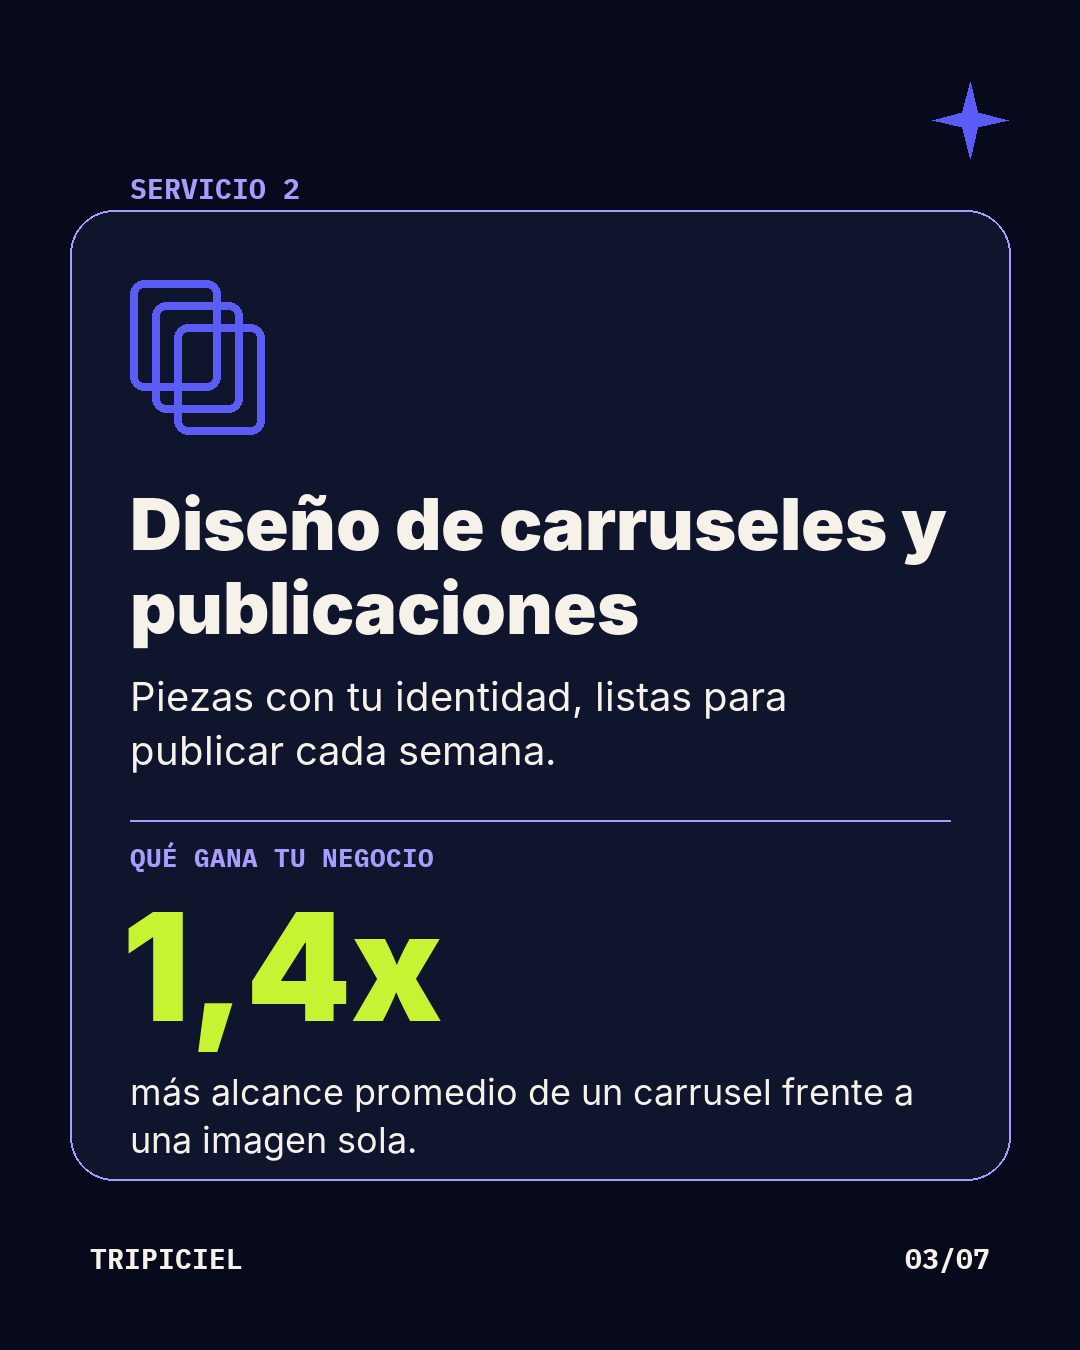
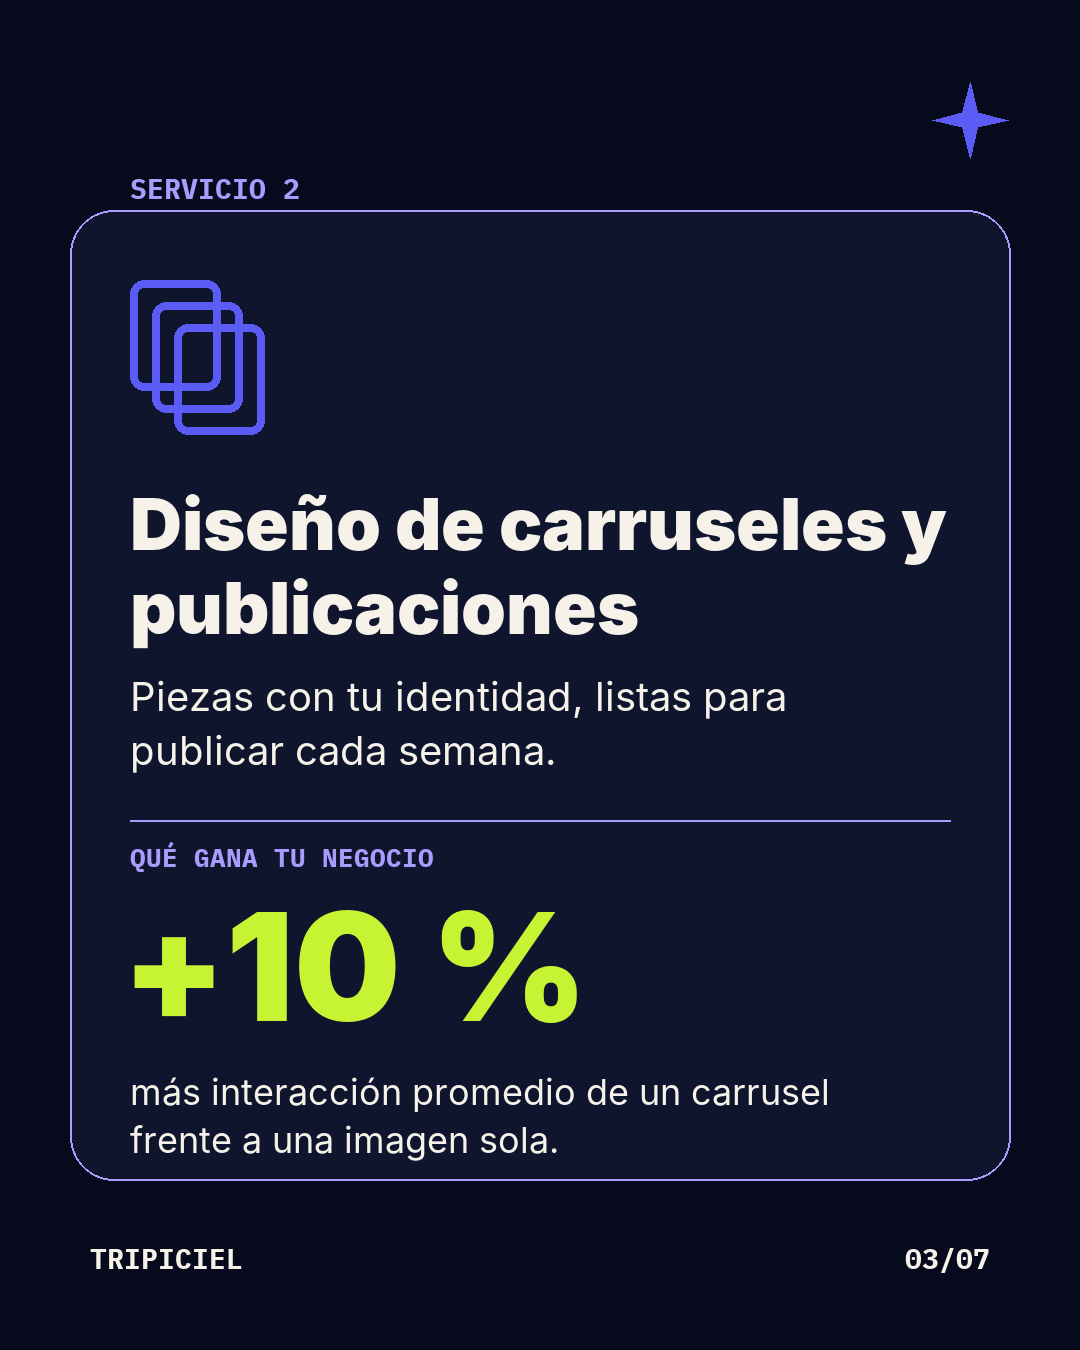
Carrusel día 01: cifras verificadas (slide 3 y 6) y fuentes

Changed region(s): [[0.1222, 0.6533, 0.8556, 0.8711]]

diff --git a/semana-01/dia-01/carrusel/notas.md b/semana-01/dia-01/carrusel/notas.md
@@ -1,11 +1,7 @@
-# Fuentes de las cifras (carrusel día 01)
+# Fuentes de las cifras (verificadas el 13/11/2026)
 
-Son cifras de industria (no de casos propios). Verificar cada una antes de publicar.
-
-- 87 % (slide 2) — Wyzowl, *Video Marketing Statistics* (2024): marketers que dicen que el video aumentó sus ventas.
-- 1,4x (slide 3) — A VERIFICAR: dato de alcance de carruseles vs. imagen única citado en estudios de Socialinsider sobre Instagram; confirmar número y año exactos o reemplazar.
-- 75 % (slide 4) — Stanford Web Credibility Research (B. J. Fogg): usuarios que juzgan la credibilidad de una empresa por el diseño de su web.
-- 90 % (slide 5) — HubSpot Research: clientes que califican una respuesta "inmediata" como importante o muy importante en atención.
-- 76 % (slide 6) — Sprout Social Index: consumidores que compraron algo que vieron en redes sociales. Confirmar edición/año.
-
-Casos Chicho Cars / Nacusi Muebles: no se usaron porque no había cifras reales disponibles; si existen, pueden reemplazar estas cifras.
+- 87 % (slide 2): Wyzowl, State of Video Marketing 2024. Marketers que dicen que el video aumentó directamente sus ventas (87 % en 2023 y 2024).
+- +10 % (slide 3): Socialinsider, estudio de 22 millones de posts de Instagram. Interacción promedio: carrusel 1,92 % frente a imagen 1,74 % (+10 %). Reemplaza el 1,4x anterior, que no tenía respaldo.
+- 75 % (slide 4): atribuido al Stanford Web Credibility Research (B. J. Fogg). Se cita en todas partes, pero no se ubicó la fuente primaria. Usar con cautela o reemplazar.
+- 90 % (slide 5): encuesta de HubSpot Research de 2018, citada en el State of Service 2022. Clientes que califican una respuesta "inmediata" como importante o muy importante.
+- 76 % (slide 6): Sprout Social, Pulse Survey del 2.º trimestre de 2025. Usuarios que dicen que las redes influyeron en sus compras de los últimos seis meses. El texto se corrigió: antes decía "compró algo que vio".
